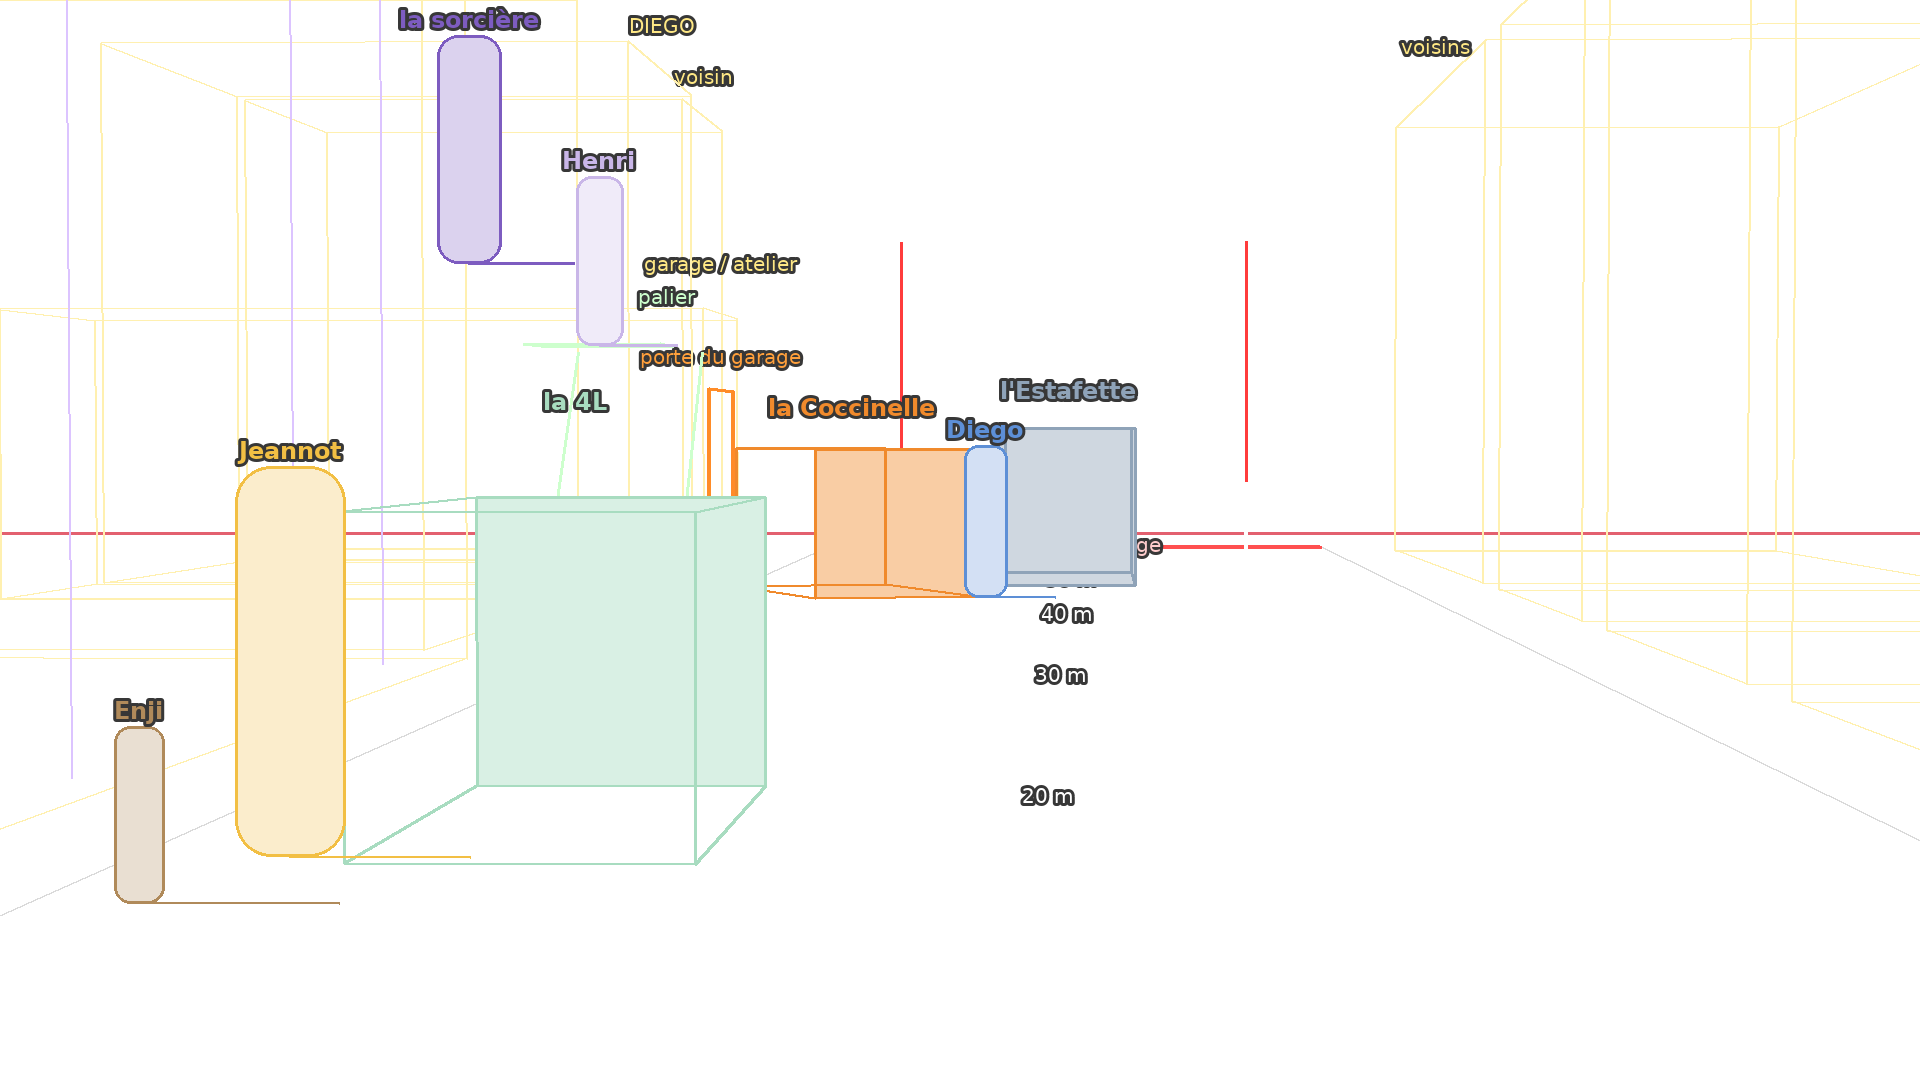
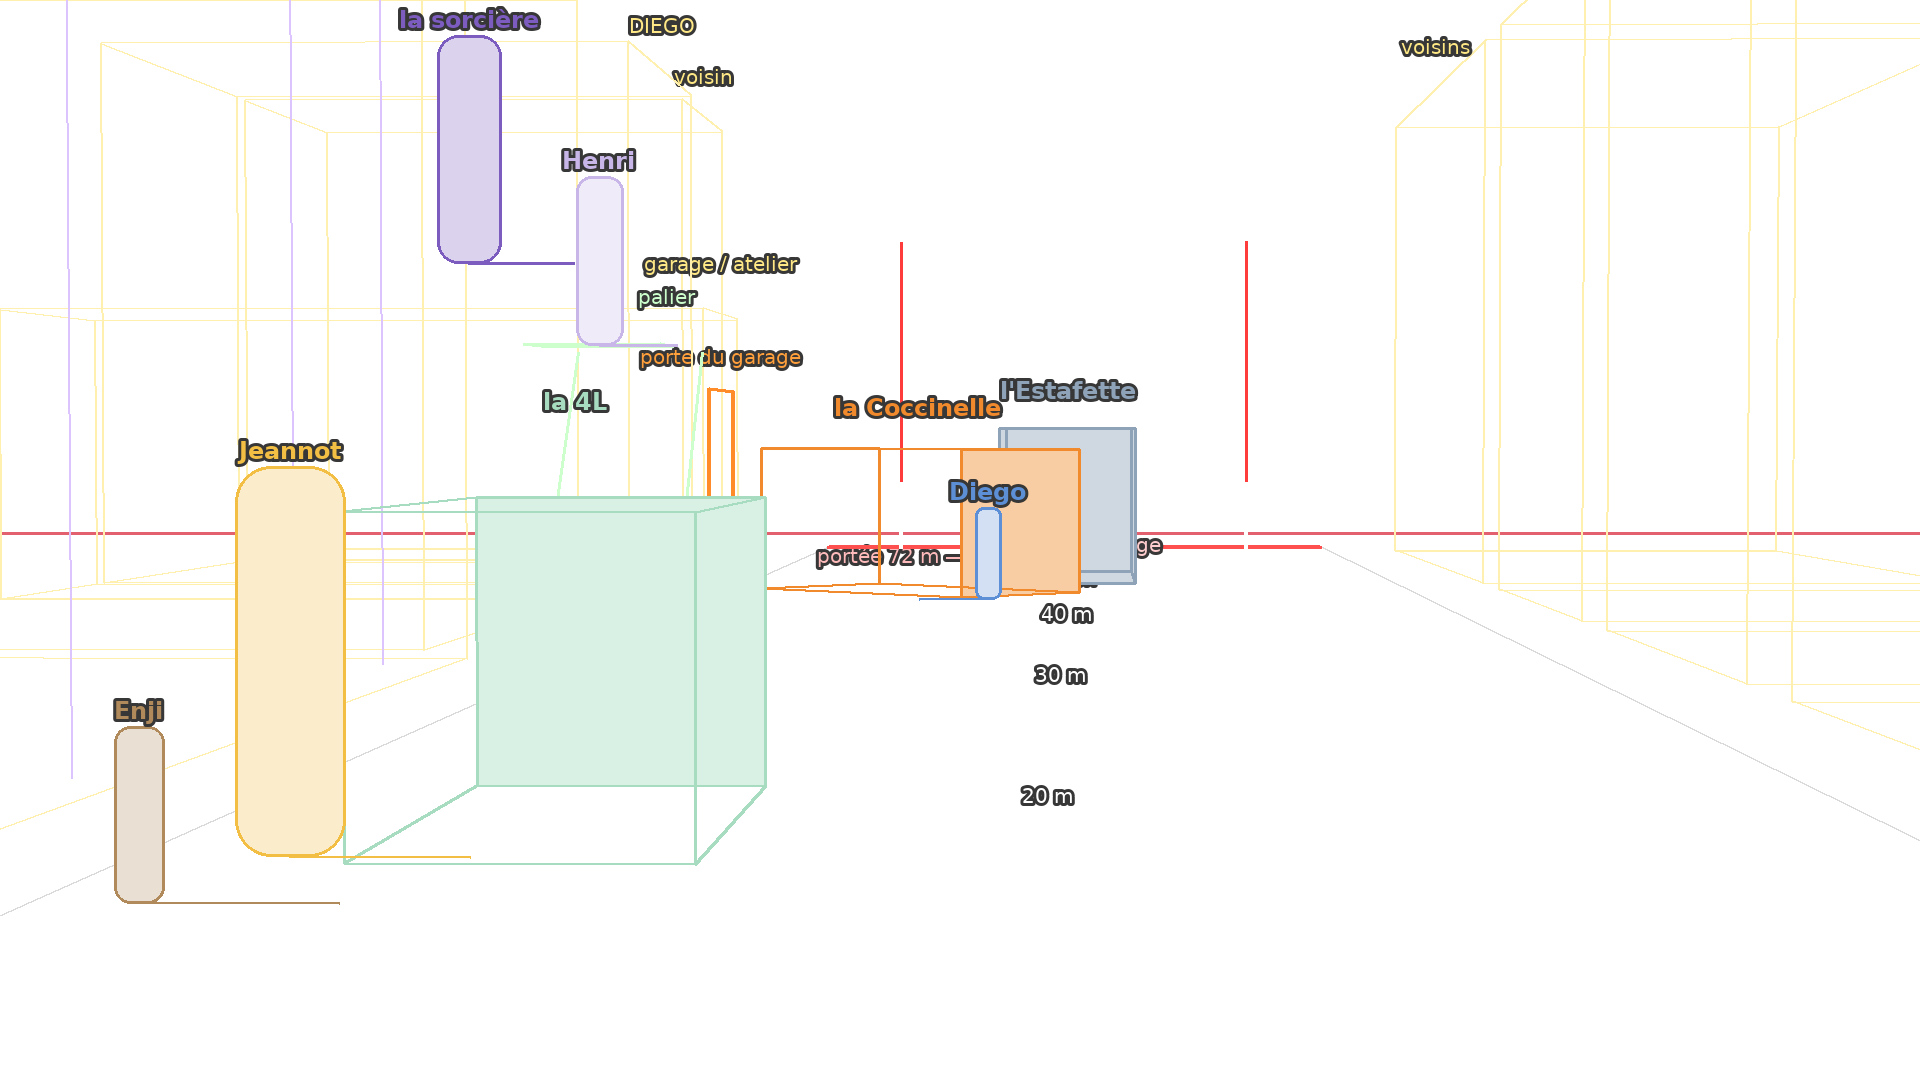
Carte P01 rév. 9 : Coccinelle, Diego (à genoux) et Estafette recalés sur v16 (contact au sol + sens)

Changed region(s): [[0.375, 0.3667, 0.5938, 0.5806]]

diff --git a/docs/storyboard-a-valider.md b/docs/storyboard-a-valider.md
@@ -86,7 +86,7 @@ D'après ton avis sur la v4 : le fond du garage est aligné sur le fond des mais
 
 > Plan général maître de la rue, avec avant-plan dégagé. Une 4L vert menthe unique, à échelle réaliste, reste sur l'asphalte au bord du trottoir gauche devant chez Jeannot ; l'Estafette bleu-gris est plus loin sur le même côté.
 
-🗺 Carte du plan (rév. 8, 2026-10-13 10:12) :
+🗺 Carte du plan (rév. 9, 2026-10-13 10:12) :
 
 <img src="../assets/storyboards/a-valider/carte/plans/p01.png" width="420" alt="carte P01">
 
